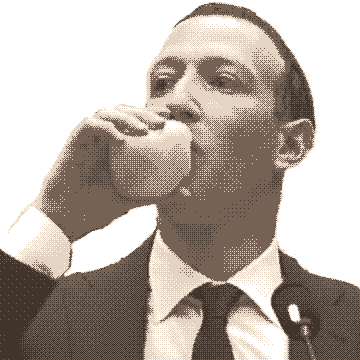
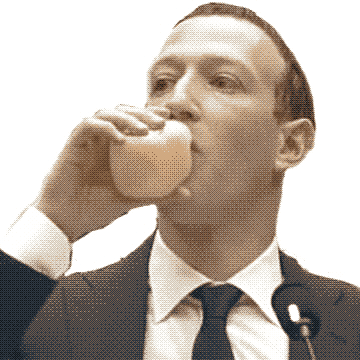
readme update

diff --git a/utils/dither.py b/utils/dither.py
@@ -11,7 +11,7 @@ def dither_image(img_path, rel_dir):
     img = Image.open(img_path)
 
     # Create a palette using median cut
-    palette = hitherdither.palette.Palette.create_by_median_cut(img, n=3)
+    palette = hitherdither.palette.Palette.create_by_median_cut(img, n=9)
 
     # Perform Bayer dithering
     img_dithered = hitherdither.ordered.bayer.bayer_dithering(
